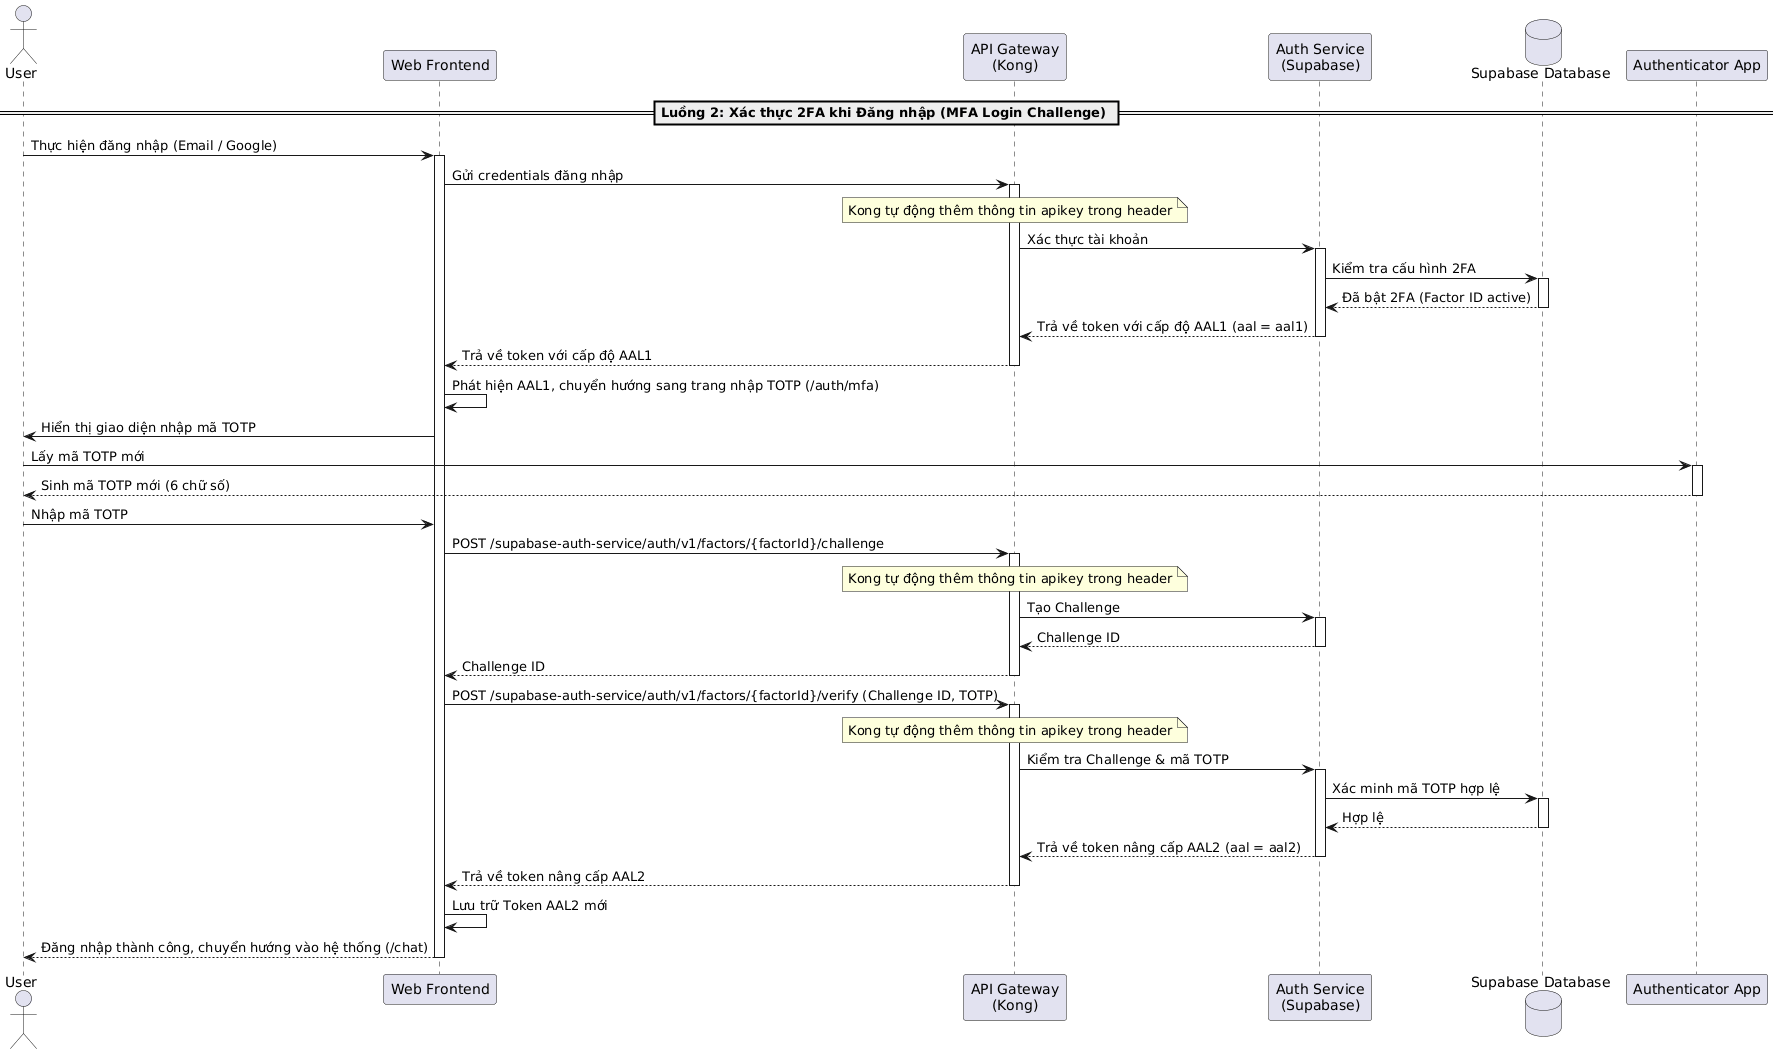
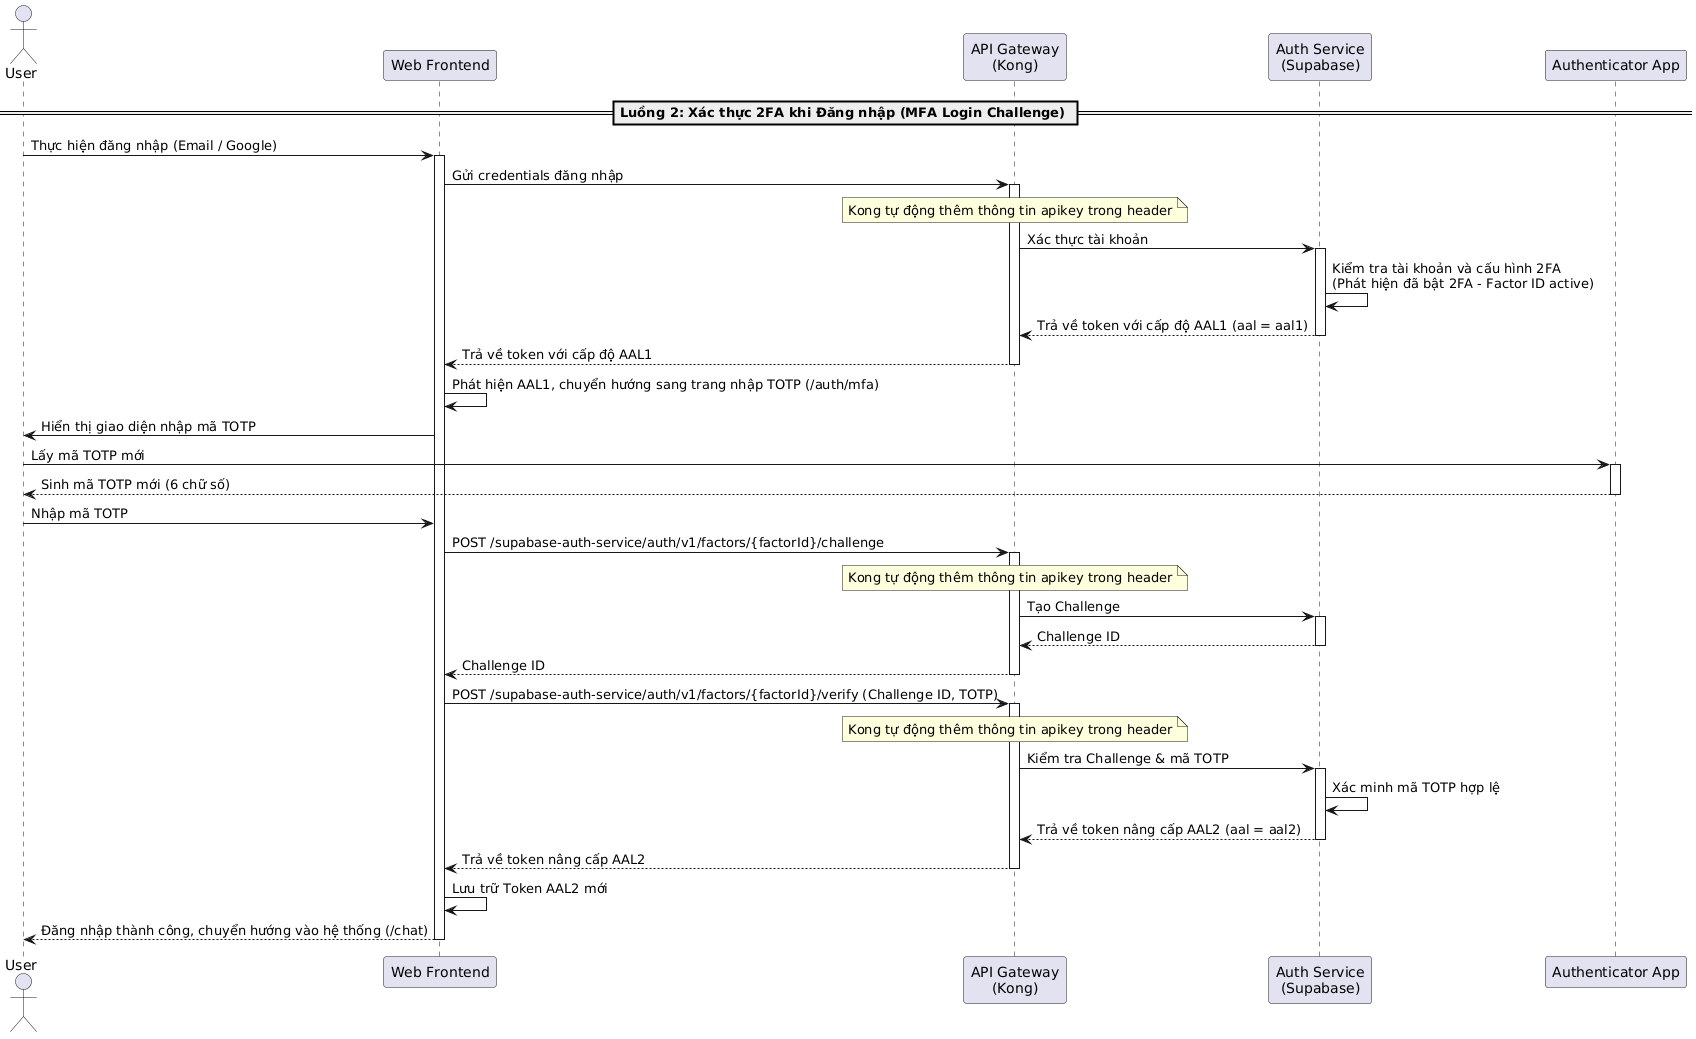
x

diff --git a/sequence.py b/sequence.py
@@ -9,18 +9,28 @@ file_path = r"C:\Users\Admin\Documents\GitHub\docs-latex\latex\contents\Sequence
 file_path = r"C:\Users\Admin\Documents\GitHub\docs-latex\latex\contents\Sequence\UML-Sequence-UserMfaEnrollment.tex"
 file_path = r"C:\Users\Admin\Documents\GitHub\docs-latex\latex\contents\Sequence\UML-Sequence-UserMfaLoginChallenge.tex"
 # file_path = r"C:\Users\Admin\Documents\GitHub\docs-latex\latex\contents\Sequence\UML-Sequence-UserMfaResetDevice.tex"
+
+
 # file_path = r"C:\Users\Admin\Documents\GitHub\docs-latex\latex\contents\Sequence\UML-Sequence-UserProfileUpdateDisplayName.tex"
 # file_path = r"C:\Users\Admin\Documents\GitHub\docs-latex\latex\contents\Sequence\UML-Sequence-UserProfileUploadAvatar.tex"
 # file_path = r"C:\Users\Admin\Documents\GitHub\docs-latex\latex\contents\Sequence\UML-Sequence-UserForgotPasswordRequest.tex"
 # file_path = r"C:\Users\Admin\Documents\GitHub\docs-latex\latex\contents\Sequence\UML-Sequence-UserEmailLinkVerificationRedirect.tex"
 # file_path = r"C:\Users\Admin\Documents\GitHub\docs-latex\latex\contents\Sequence\UML-Sequence-UserResetChangePassword.tex"
+
+
 # file_path = r"C:\Users\Admin\Documents\GitHub\docs-latex\latex\contents\Sequence\UML-Sequence-UserGetSettings.tex"
 # file_path = r"C:\Users\Admin\Documents\GitHub\docs-latex\latex\contents\Sequence\UML-Sequence-UserUpdateSettings.tex"
+
+
 # file_path = r"C:\Users\Admin\Documents\GitHub\docs-latex\latex\contents\Sequence\UML-Sequence-UserTextChatSse.tex"
 # file_path = r"C:\Users\Admin\Documents\GitHub\docs-latex\latex\contents\Sequence\UML-Sequence-UserDeleteChat.tex"
+
+
 # file_path = r"C:\Users\Admin\Documents\GitHub\docs-latex\latex\contents\Sequence\UML-Sequence-UserCreateSharedChat.tex"
 # file_path = r"C:\Users\Admin\Documents\GitHub\docs-latex\latex\contents\Sequence\UML-Sequence-UserRevokeSharedChat.tex"
 # file_path = r"C:\Users\Admin\Documents\GitHub\docs-latex\latex\contents\Sequence\UML-Sequence-UserBookmarkChat.tex"
+
+
 # file_path = r"C:\Users\Admin\Documents\GitHub\docs-latex\latex\contents\Sequence\UML-Sequence-AdminManagePersona.tex"
 # file_path = r"C:\Users\Admin\Documents\GitHub\docs-latex\latex\contents\Sequence\UML-Sequence-AdminSyncElevenLabsVoices.tex"
 # file_path = r"C:\Users\Admin\Documents\GitHub\docs-latex\latex\contents\Sequence\UML-Sequence-AdminCreateVipPlan.tex"
@@ -28,12 +38,16 @@ file_path = r"C:\Users\Admin\Documents\GitHub\docs-latex\latex\contents\Sequence
 # file_path = r"C:\Users\Admin\Documents\GitHub\docs-latex\latex\contents\Sequence\UML-Sequence-AdminPhapDienPipelineReport.tex"
 # file_path = r"C:\Users\Admin\Documents\GitHub\docs-latex\latex\contents\Sequence\UML-Sequence-AdminVbplPipelineReport.tex"
 # file_path = r"C:\Users\Admin\Documents\GitHub\docs-latex\latex\contents\Sequence\UML-Sequence-AdminManageVoiceEngine.tex"
+
+
 # file_path = r"C:\Users\Admin\Documents\GitHub\docs-latex\latex\contents\Sequence\UML-Sequence-UserCreateVipPaymentTransaction.tex"
 # file_path = r"C:\Users\Admin\Documents\GitHub\docs-latex\latex\contents\Sequence\UML-Sequence-PaymentGatewayCallbackVerification.tex"
 # file_path = r"C:\Users\Admin\Documents\GitHub\docs-latex\latex\contents\Sequence\UML-Sequence-PaymentSuccessUpdateOutbox.tex"
 # file_path = r"C:\Users\Admin\Documents\GitHub\docs-latex\latex\contents\Sequence\UML-Sequence-PaymentOutboxRelayKafka.tex"
 # file_path = r"C:\Users\Admin\Documents\GitHub\docs-latex\latex\contents\Sequence\UML-Sequence-PaymentSendVipConfirmationEmail.tex"
 # file_path = r"C:\Users\Admin\Documents\GitHub\docs-latex\latex\contents\Sequence\UML-Sequence-UserTransactionHistoryLookup.tex"
+
+
 # file_path = r"C:\Users\Admin\Documents\GitHub\docs-latex\latex\contents\Sequence\UML-Sequence-UserVoiceLiveKitToken.tex"
 # file_path = r"C:\Users\Admin\Documents\GitHub\docs-latex\latex\contents\Sequence\UML-Sequence-UserVoiceChatWithAi.tex"
 # file_path = r"C:\Users\Admin\Documents\GitHub\docs-latex\latex\contents\Sequence\UML-Sequence-UserUploadPersonalDocument.tex"

diff --git a/latex/contents/Sequence/UML-Sequence-UserMfaLoginChallenge.tex b/latex/contents/Sequence/UML-Sequence-UserMfaLoginChallenge.tex
@@ -1,8 +1,9 @@
 \paragraph{Sơ đồ tuần tự luồng Bắt buộc xác thực 2FA khi Đăng nhập (MFA Login Challenge)}
 
 Luồng nghiệp vụ này mô tả
-
-chi tiết quá trình bắt buộc xác thực mã TOTP khi đăng nhập nếu người dùng đã bật bảo mật 2FA.
+chi tiết quá trình bắt buộc xác thực mã TOTP
+sau khi
+đăng nhập.
 
 \begin{figure}[H]
 \centering
@@ -15,6 +16,7 @@ chi tiết quá trình bắt buộc xác thực mã TOTP khi đăng nhập nếu
 \begin{table}[H]
 \centering
 \renewcommand{\arraystretch}{1.3}
+
 \begin{tabular}{|l|l|p{5cm}|}
 \hline
 \textbf{Thành phần} & \textbf{Phân loại} & \textbf{Vai trò trong hệ thống} \\ \hline
@@ -22,15 +24,15 @@ User & Actor & Người dùng thực hiện đăng nhập. \\ \hline
 Web Frontend & Component & Giao diện web Next.js. \\ \hline %%%% Component & Giao diện Next.js điều phối quá trình chặn quyền và chuyển hướng sang trang nhập TOTP. \\ \hline
 API Gateway (Kong) & Component & Cổng API chuyển tiếp các yêu cầu API. \\ \hline %%%% Component & Cổng trung gian chuyển tiếp thông tin đăng nhập và TOTP. \\ \hline
 Auth Service (Supabase) & Microservice & Dịch vụ Supabase Auth kiểm tra và sinh challenge, nâng cấp token AAL1 lên AAL2. \\ \hline
-Supabase Database & Database & Lưu trạng thái và thông tin khóa bảo mật. \\ \hline
 Authenticator App & External Service & Ứng dụng di động sinh mã TOTP dựa trên TOTP. \\ \hline
 \end{tabular}
 \caption{Các thành phần tham gia luồng Bắt buộc xác thực 2FA khi Đăng nhập}
 \end{table}
 
 \subparagraph{Mô tả tổng quan}
+
 \begin{itemize}
-\item Khi đăng nhập thông thường, Auth Service phát hiện User đã kích hoạt 2FA. Do đó, hệ thống chỉ cấp Access Token tạm thời ở cấp độ AAL1 (\texttt{aal = aal1}).
+\item Khi đăng nhập, hệ thống chỉ cấp Access Token tạm thời ở cấp độ AAL1 (\texttt{aal = aal1}).
 \item Web Frontend phát hiện cấp độ token là AAL1, lập tức chặn quyền truy cập và chuyển hướng trình duyệt sang trang nhập mã TOTP (\texttt{/auth/mfa}).
 \item User điền mã TOTP lấy từ ứng dụng di động. Frontend thực hiện luồng thách thức/xác thực tương tự qua Gateway gửi tới Auth Service.
 \item Khi xác minh thành công, Auth Service nâng cấp phiên đăng nhập lên cấp độ AAL2 (\texttt{aal = aal2}), cấp Access Token mới và gửi về cho Web Frontend để cho phép người dùng đăng nhập chính thức vào hệ thống (\texttt{/chat}).

diff --git a/latex/contents/So_do_tuan_tu_Sequence_Diagram.tex b/latex/contents/So_do_tuan_tu_Sequence_Diagram.tex
@@ -10,18 +10,23 @@
 % \input{contents/Sequence/UML-Sequence-UserMfaEnrollment.tex}
 \input{contents/Sequence/UML-Sequence-UserMfaLoginChallenge.tex}
 % \input{contents/Sequence/UML-Sequence-UserMfaResetDevice.tex}
+
 % \input{contents/Sequence/UML-Sequence-UserProfileUpdateDisplayName.tex}
 % \input{contents/Sequence/UML-Sequence-UserProfileUploadAvatar.tex}
 % \input{contents/Sequence/UML-Sequence-UserForgotPasswordRequest.tex}
 % \input{contents/Sequence/UML-Sequence-UserEmailLinkVerificationRedirect.tex}
 % \input{contents/Sequence/UML-Sequence-UserResetChangePassword.tex}
+
 % \input{contents/Sequence/UML-Sequence-UserGetSettings.tex}
 % \input{contents/Sequence/UML-Sequence-UserUpdateSettings.tex}
+
 % \input{contents/Sequence/UML-Sequence-UserTextChatSse.tex}
 % \input{contents/Sequence/UML-Sequence-UserDeleteChat.tex}
+
 % \input{contents/Sequence/UML-Sequence-UserCreateSharedChat.tex}
 % \input{contents/Sequence/UML-Sequence-UserRevokeSharedChat.tex}
 % \input{contents/Sequence/UML-Sequence-UserBookmarkChat.tex}
+
 % \input{contents/Sequence/UML-Sequence-AdminManagePersona.tex}
 % \input{contents/Sequence/UML-Sequence-AdminSyncElevenLabsVoices.tex}
 % \input{contents/Sequence/UML-Sequence-AdminCreateVipPlan.tex}
@@ -29,12 +34,14 @@
 % \input{contents/Sequence/UML-Sequence-AdminPhapDienPipelineReport.tex}
 % \input{contents/Sequence/UML-Sequence-AdminVbplPipelineReport.tex}
 % \input{contents/Sequence/UML-Sequence-AdminManageVoiceEngine.tex}
+
 % \input{contents/Sequence/UML-Sequence-UserCreateVipPaymentTransaction.tex}
 % \input{contents/Sequence/UML-Sequence-PaymentGatewayCallbackVerification.tex}
 % \input{contents/Sequence/UML-Sequence-PaymentSuccessUpdateOutbox.tex}
 % \input{contents/Sequence/UML-Sequence-PaymentOutboxRelayKafka.tex}
 % \input{contents/Sequence/UML-Sequence-PaymentSendVipConfirmationEmail.tex}
 % \input{contents/Sequence/UML-Sequence-UserTransactionHistoryLookup.tex}
+
 % \input{contents/Sequence/UML-Sequence-UserVoiceLiveKitToken.tex}
 % \input{contents/Sequence/UML-Sequence-UserVoiceChatWithAi.tex}
 % \input{contents/Sequence/UML-Sequence-UserUploadPersonalDocument.tex}
